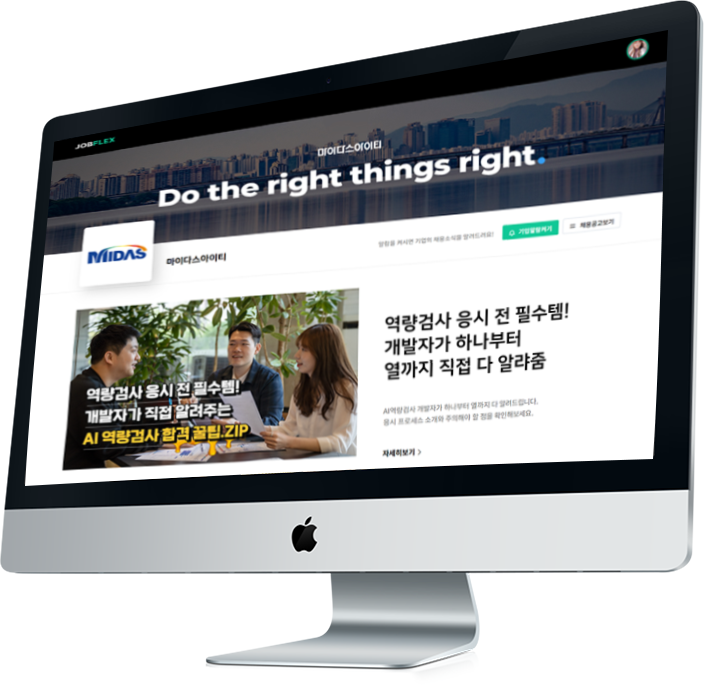
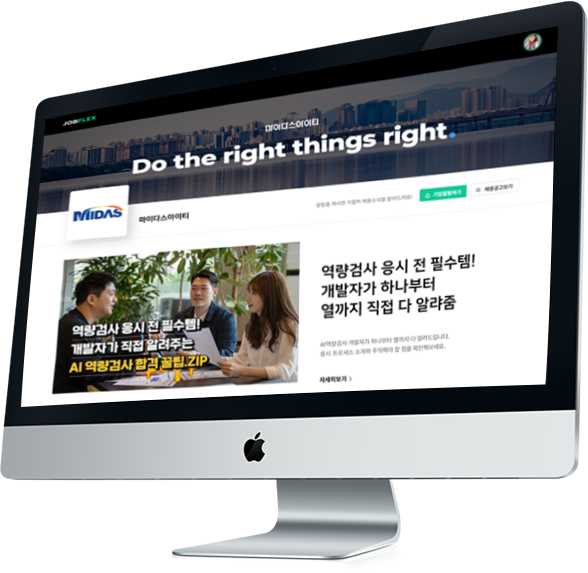
썸네일작업중

diff --git a/src/component/projectList/view/ListItem.tsx b/src/component/projectList/view/ListItem.tsx
@@ -19,11 +19,13 @@ const ListItem = (props: IProps) => {
                 <dd className={css.term}>{data['term']}</dd>
                 <dd className={css.link}>View case <i></i></dd>
             </dl>
-            <figure className={css.thumb}>
-                {
-                    data['thumbnail'] && data['thumbnail'].map((v, i) => <img key={v+i} src={v} alt=""/>)
-                }
-            </figure>
+            <div className={css.thumb}>
+                <figure>
+                    {
+                        data['thumbnail'] && data['thumbnail'].map((v, i) => <img key={v+i} src={v} alt=""/>)
+                    }
+                </figure>
+            </div>
         </Link>
     );
 };

diff --git a/src/component/projectList/view/ListItem.scss b/src/component/projectList/view/ListItem.scss
@@ -77,5 +77,15 @@
     background: themeColor($thumbBgColor, "dark");
 
     body[data-theme="bright"] & {background: themeColor($thumbBgColor, "bright");}
+
+    > figure {
+      position: relative;
+      max-width: 60%;
+
+      > img {
+        position: absolute;
+        width: 100%;
+      }
+    }
   }
 }
